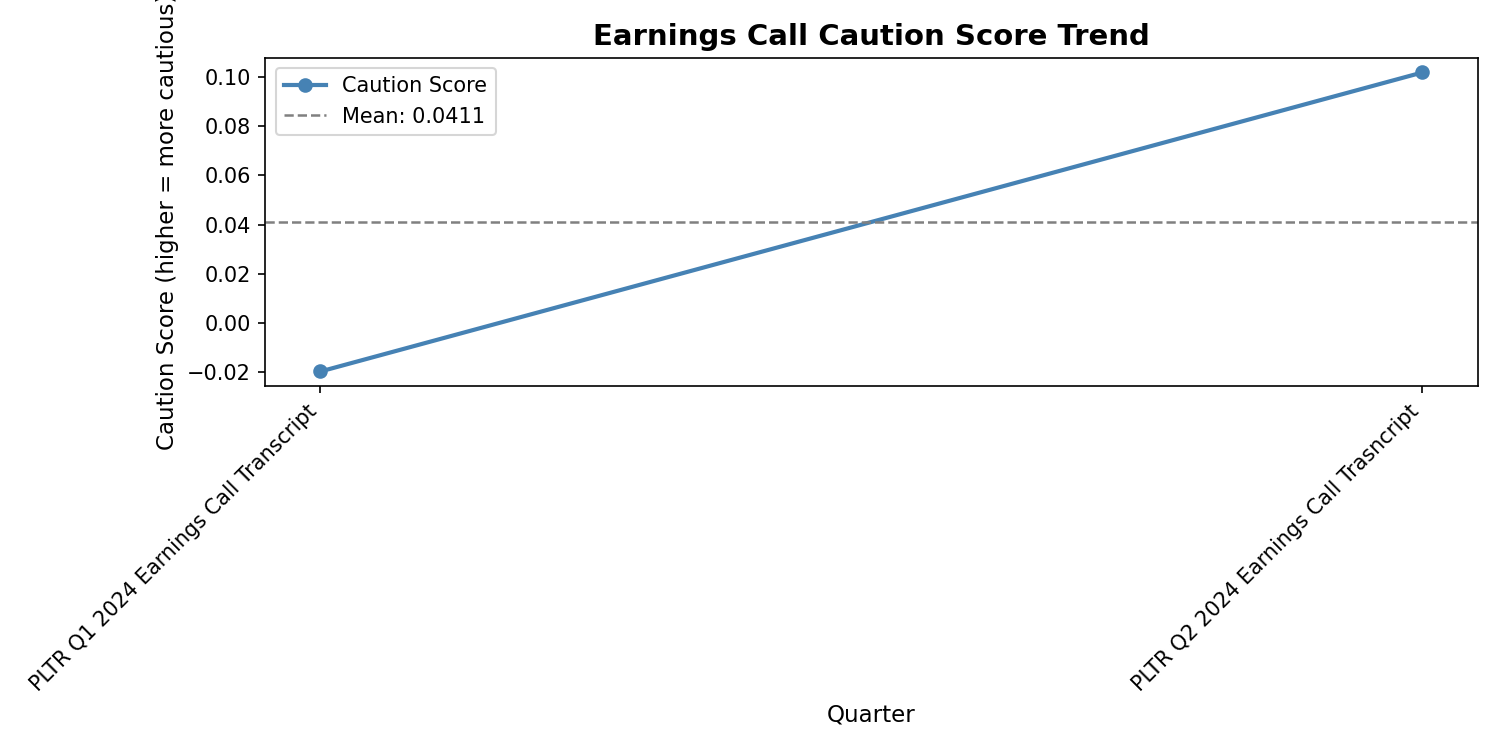
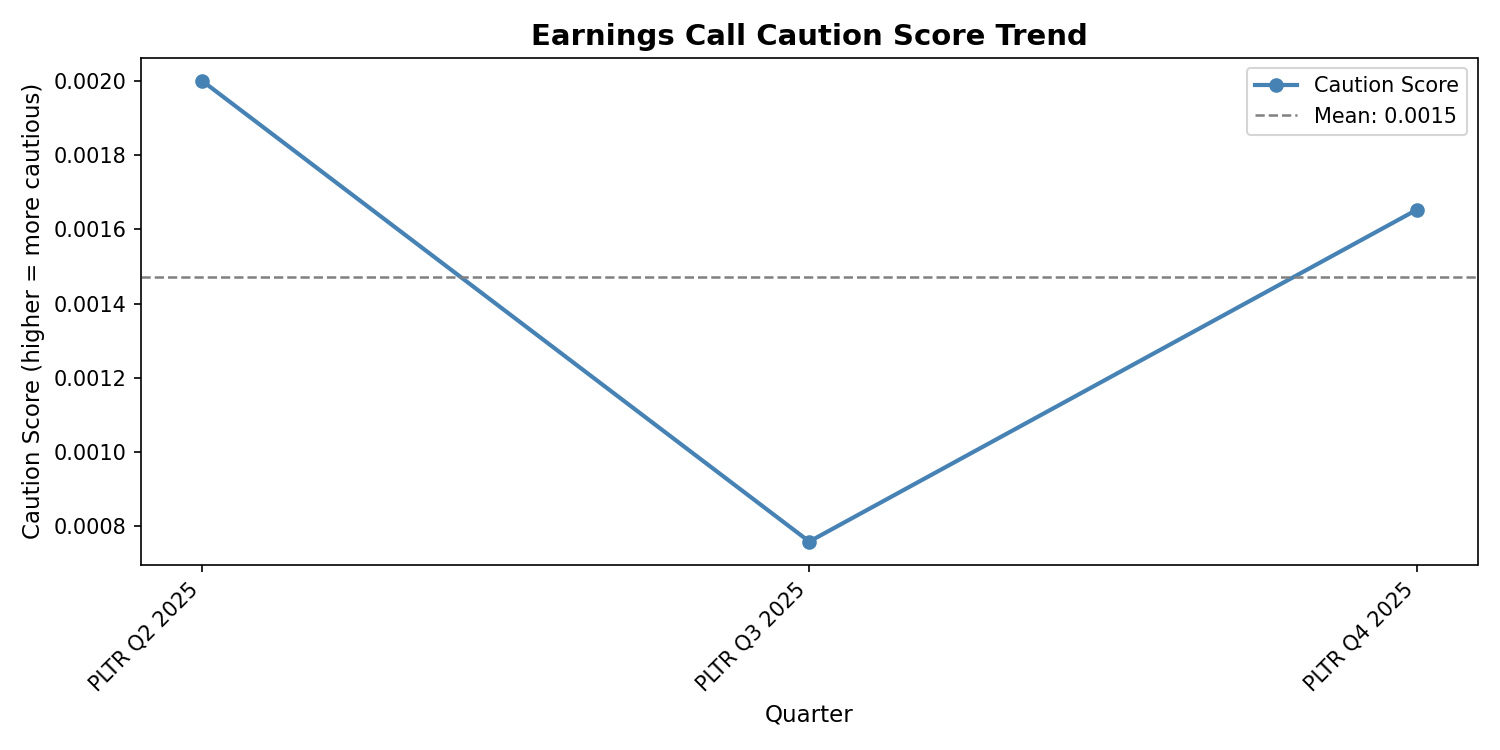
Mini Project 2; Iteration 2 and README upload

diff --git a/Mini Project 2/README.md b/Mini Project 2/README.md
@@ -1,0 +1,9 @@
+# What does my earnings sentiment analyzer do?
+
+This application takes earning call trasncripts over a series of quarters for a US public company and analyzes shifts in company sentiment through changes in CEO/admin language and tone across the quarter. This is important because many investors listen to and read earnings calls to understand the company's internal sentiment of their current status and trajectory.
+
+
+
+# Instructions for running the application:
+
+Simply go to your command prompt and input _______. Then copy/paste the earnings call texts from any credible source onto a word document, convert the .docx file to a .txt file, and change the file 'encoding' to UTF-8. From there just follow the commands given to upload the documents. Place as many earnings call transcripts as you'd like for your chosen company and watch the application measure shifts in language sentiment across the given periods!
